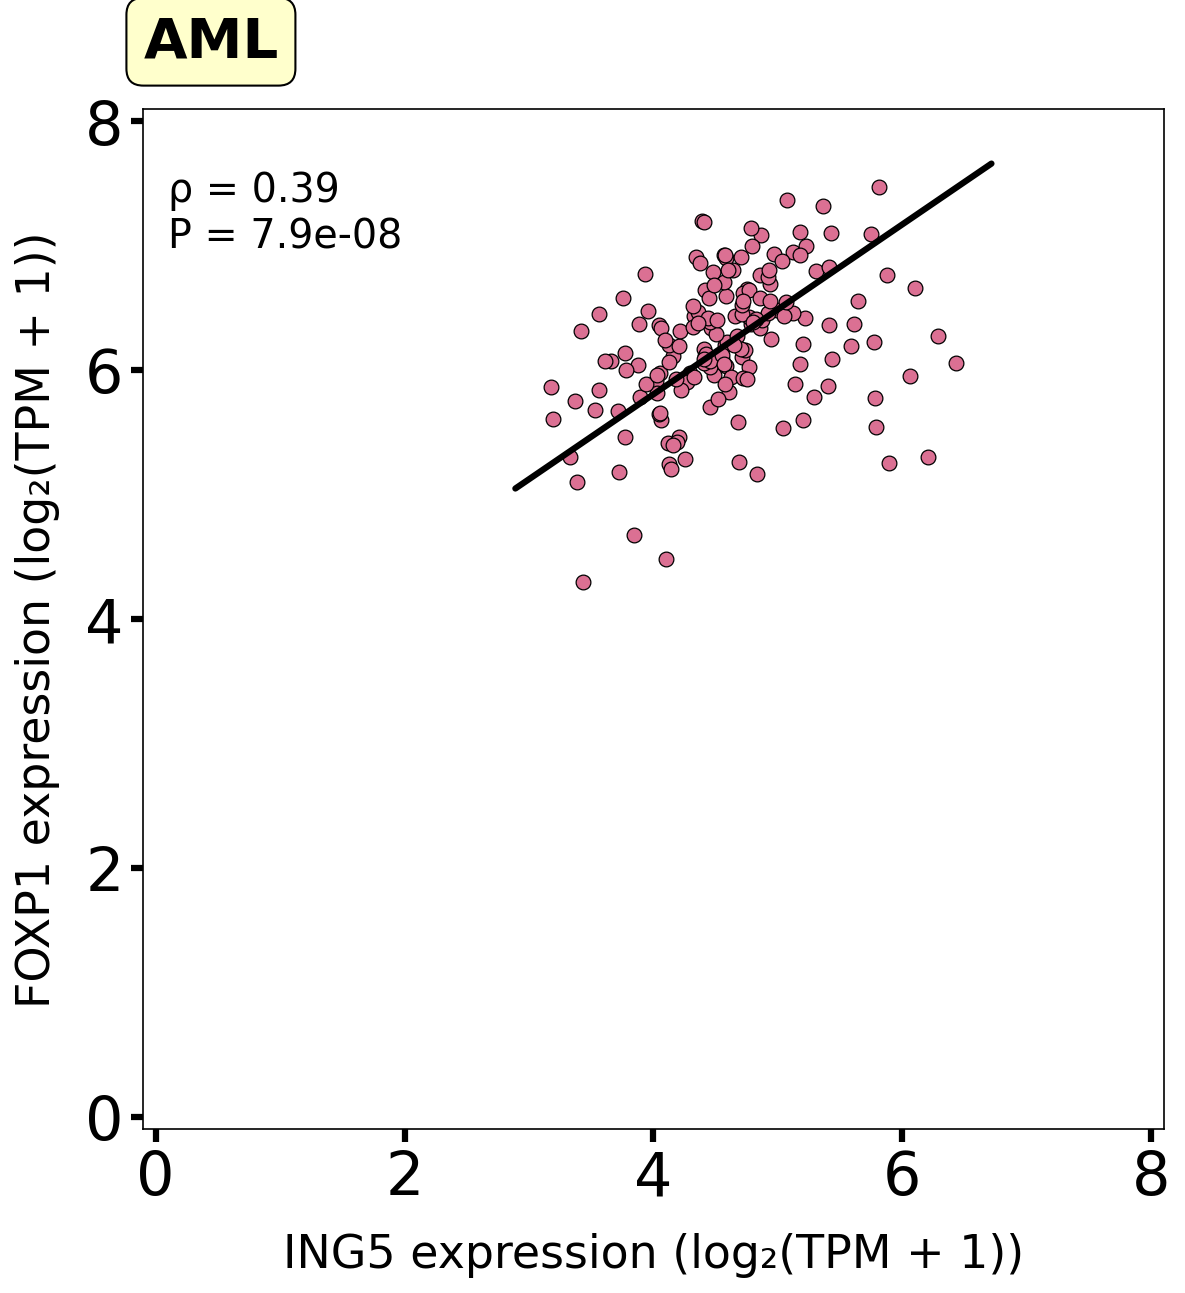
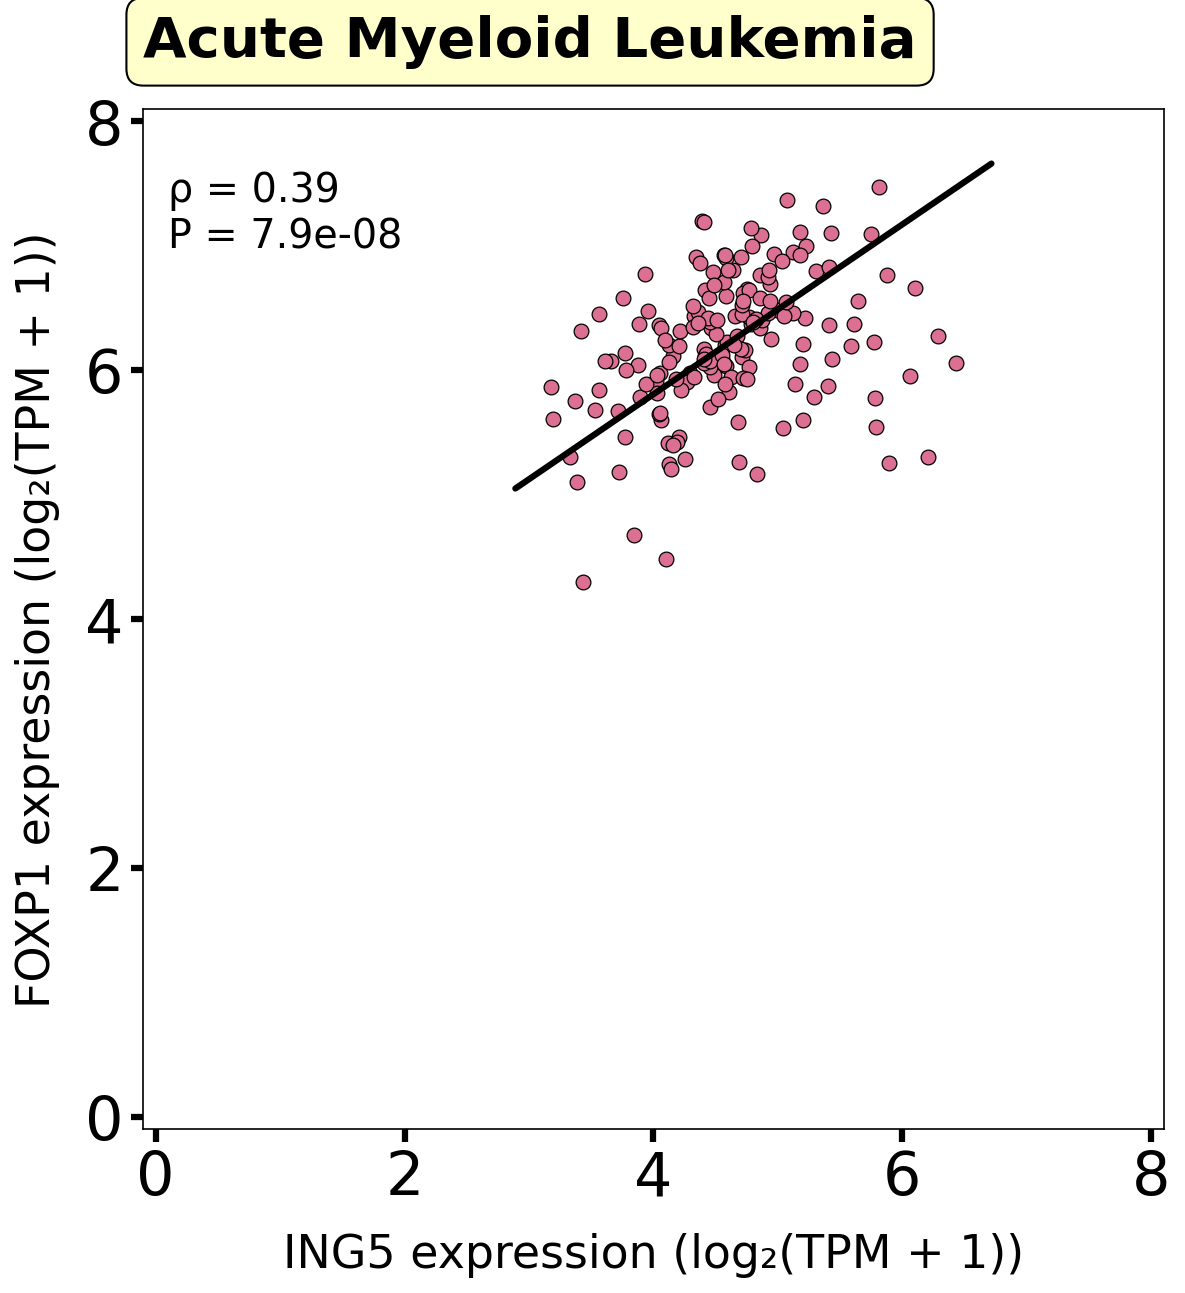
Polish plots, update Snakefile with github outputs, sharper README figures

Changed region(s): [[0.1561, 0.0, 0.8118, 0.0928]]

diff --git a/scripts/02_correlation.py b/scripts/02_correlation.py
@@ -296,7 +296,7 @@ def main():
         expr_aml, GENE1, GENE2, slope_aml, intercept_aml, annotation_aml,
         XLIM, YLIM,
         point_color="#DB7093",  # R used #DB7093 for AML
-        title_suffix="AML",
+        title_suffix="Acute Myeloid Leukemia",
         output_path=os.path.join(RESULTS_DIR, "correlation_aml.png"),
     )
 
